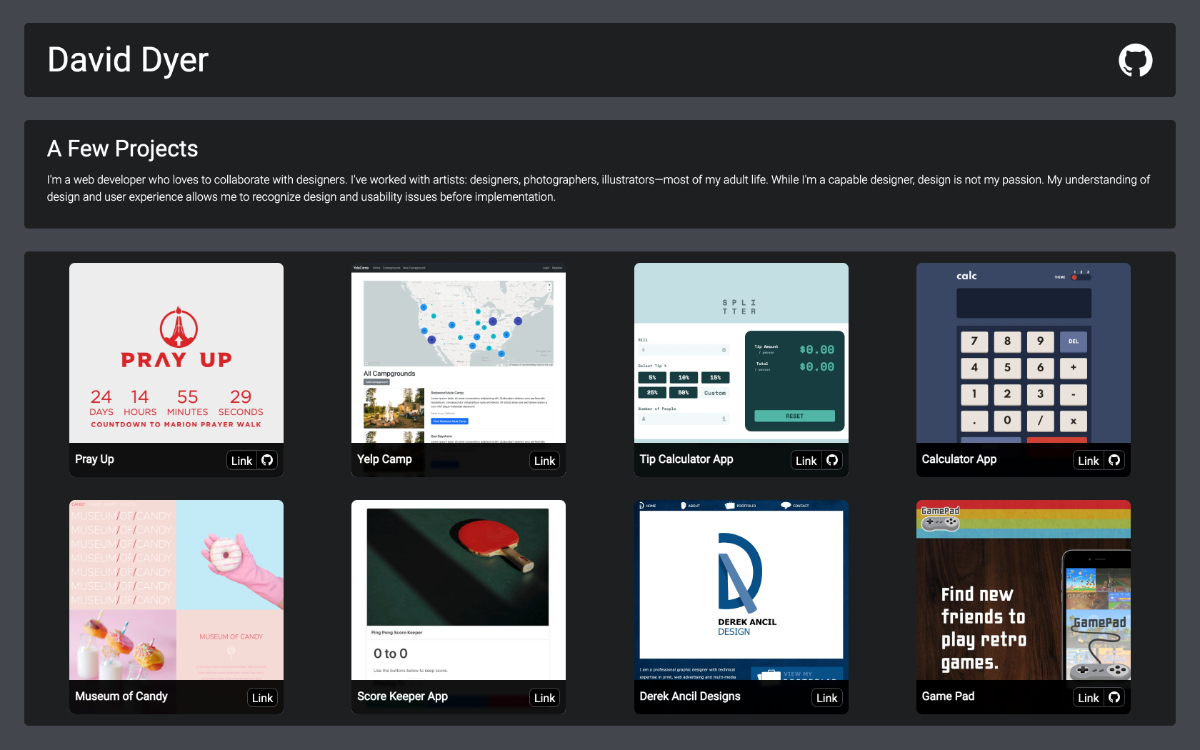
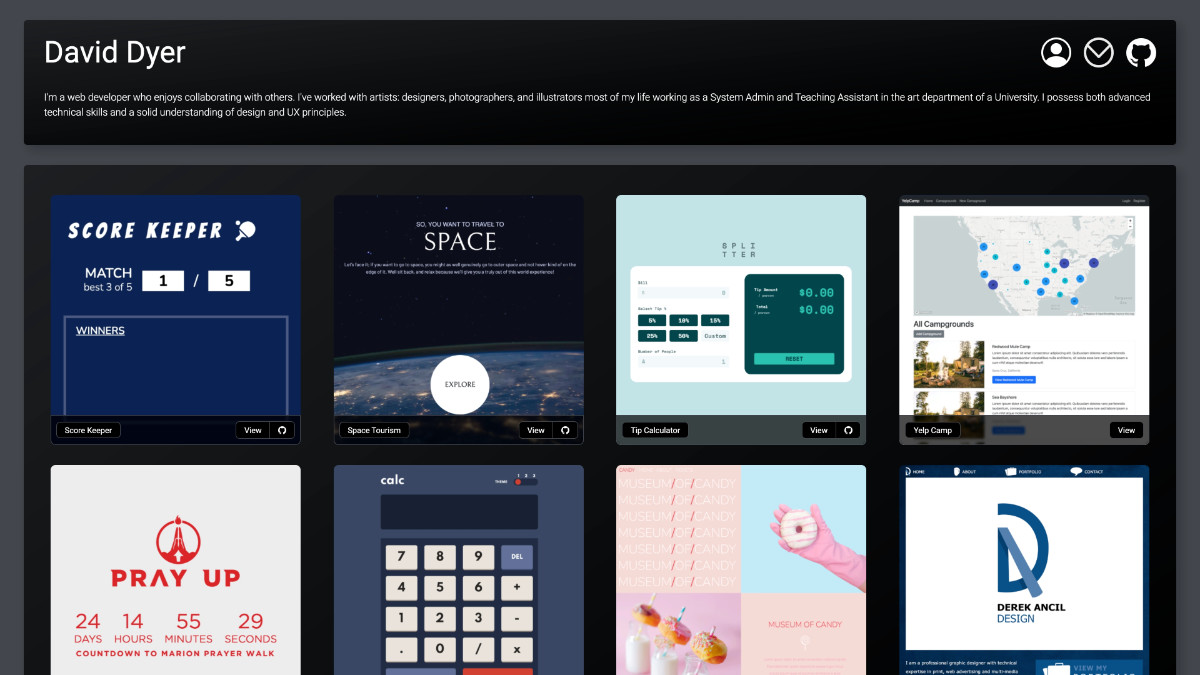
language css additions

diff --git a/scripts/dynamic-content.js b/scripts/dynamic-content.js
@@ -1,10 +1,9 @@
 const projectList = document.querySelector('#container--project-list');
 const detailList = document.querySelector('#container--project-details')
 
-const portfolioData = [
-	{
+const portfolioData = [{
 		title: 'Score Keeper',
-		discription: 'Web app for keeping score of a ping pong game, I designed and implemented.',
+		discription: "Web App for keeping score of a ping pong game. The goal was to keep track of the score for the current game and a set of games. I also wanted the winner list to persist between site loads. The winner list is stored as a JSON array in the browser's local storage.",
 		date: 'Dec 2021',
 		siteUrl: 'https://davidbdeath.github.io/ping-pong_score_keeper/',
 		gitUrl: 'https://github.com/davidbdeath/ping-pong_score_keeper',
@@ -14,12 +13,13 @@ const portfolioData = [
 		lang_lib: [
 			'html',
 			'sass',
-			'javascript'
+			'javascript',
+			'json'
 		]
 	},
 	{
 		title: 'Space Tourism',
-		discription: 'Website, implemented by me, designed by Frontend Mentor.',
+		discription: "I approached implementing this site using Javascript to toggle content visibility instead of creating a new HTML document for sub-page content. The content change controls for each page are done using the ARIA tablist. As a result, the page is screen reader-friendly. Site design by Frontend Mentor.",
 		date: 'Dec 2021',
 		siteUrl: 'https://davidbdeath.github.io/space-tourism-website/',
 		gitUrl: 'https://github.com/davidbdeath/space-tourism-website',
@@ -34,7 +34,7 @@ const portfolioData = [
 	},
 	{
 		title: 'Tip Calculator',
-		discription: 'Web app for splitting the bill and calculating the tip, implemented by me, designed by Frontend Mentor.',
+		discription: "Web app for splitting calculating the tip and splitting the bill with your group. Tip Amount and Total never output NaN, null, or Infinity. The inputs only accept numbers. The tip selected is highlighted, including the custom tip.",
 		date: 'Oct 2021',
 		siteUrl: 'https://davidbdeath.github.io/tip-calculator-app/',
 		imgUrl: 'images/site-thumbs/tip_calculator.jpg',
@@ -49,7 +49,7 @@ const portfolioData = [
 	},
 	{
 		title: 'Yelp Camp',
-		discription: 'Campground rating web app. I implemented the frontend and backend. Design based on a project from <a href="https://www.udemy.com/share/101W923@0AHFLcM1tVaGQceAH4TxemyQ-r5T4YPxJg1AW3GjmKdmgXhCa0JxOIeAvNWLXTZ6/">Colt Steele Web Developer Bootcamp</a> project.',
+		discription: 'Web App for finding, rating, and reviewing campgrounds. The site is dynamically generated using EJS, EJS Mate, and MongoDB. Flash is used for error and success messages. User input is validated using Joi, sanitize-html, and express-mongo-sanitize. Helmet is used for added security. User logins are implemented using passport and express-session for session data. Cloudinary is used for image storage and manipulations. Mapbox is used for custom interactive maps. The design is based on a project from <a href="https://www.udemy.com/share/101W923@0AHFLcM1tVaGQceAH4TxemyQ-r5T4YPxJg1AW3GjmKdmgXhCa0JxOIeAvNWLXTZ6/">Colt Steele Web Developer Bootcamp</a>.',
 		date: 'Sept 2021',
 		siteUrl: 'https://damp-sierra-93991.herokuapp.com/',
 		imgUrl: 'images/site-thumbs/yelpcamp.jpg',
@@ -58,16 +58,26 @@ const portfolioData = [
 		lang_lib: [
 			'html',
 			'css',
+			'bootstrap',
 			'javascript',
 			'node',
 			'express',
 			'ejs',
-			'mongo'
+			'ejs-mate',
+			'mongodb',
+			'flash',
+			'joi',
+			'sanitize-html',
+			'express-mongo-sanitize',
+			'passport',
+			'express-sessions',
+			'mapbox',
+			'cloudinary'
 		]
 	},
 	{
 		title: 'Pray Up',
-		discription: 'Website I designed and implemented for Pray Up ministries. Precursor for a much bigger social media app we are designing.',
+		discription: 'A Website I designed and implemented for Pray Up ministries. This site is a precursor for a much bigger social media platform.',
 		date: 'Jan 2021',
 		siteUrl: 'https://prayuplife.com',
 		imgUrl: 'images/site-thumbs/prayup.jpg',
@@ -168,7 +178,7 @@ const createProjectList = () => {
 
 		const siteUrl = document.createElement('a');
 		siteUrl.href = portfolioData[site].siteUrl;
-		siteUrl.textContent = 'Link';
+		siteUrl.textContent = 'View';
 		siteUrl.target = '_blank';
 		siteUrl.rel = 'noreferrer noopener';
 
@@ -249,7 +259,8 @@ const createDetailList = () => {
 		for (let langLib in portfolioData[site].lang_lib) {
 			const listItem = document.createElement('li');
 
-			listItem.innerHTML = portfolioData[site].lang_lib[langLib]
+			// listItem.innerHTML = portfolioData[site].lang_lib[langLib];
+			listItem.textContent = portfolioData[site].lang_lib[langLib];
 			listItem.classList.add(portfolioData[site].lang_lib[langLib]);
 			detailLangList.appendChild(listItem);
 		}

diff --git a/css/style.css b/css/style.css
@@ -225,7 +225,8 @@ body {
 	color: #264DE4;
 }
 
-.javascript {
+.javascript,
+.json {
 	color: #F0DB4F;
 }
 
@@ -253,19 +254,12 @@ body {
 	color: #bf4080;
 }
 
-.html,
-.css,
-.javascript,
-.node,
-.express,
-.ejs,
-.mongo,
-.php,
-.sass {
-	font-family: "Roboto", sans-serif;
-	font-size: 1rem;
-	font-weight: 500;
-	text-transform: uppercase;
+.bootstrap {
+	color: #8b12fb;
+}
+
+.cloudinary {
+	color: #3448c5;
 }
 
 .close-ctrl {
@@ -394,7 +388,7 @@ svg {
 	    flex-basis: 40%;
 }
 
-@media (max-width: 768px) {
+@media (max-width: 992px) {
 	#container--project-details {
 		position: fixed;
 		top: 50%;
@@ -471,6 +465,10 @@ main .block {
 	width: 100%;
 }
 .project-details .detail-body li {
+	font-family: "Roboto", sans-serif;
+	font-size: 1rem;
+	font-weight: 500;
+	text-transform: uppercase;
 	margin-right: 1em;
 	list-style: none;
 }

diff --git a/index.html b/index.html
@@ -68,7 +68,7 @@
 
 		<section class="introduction">
 			<p>
-				I'm a web developer who loves collaborating with designers. I've worked with artists: designers, photographers, illustrators—most of my adult life. My understanding of design and user experience allows me to make intuitive decisions while implementing a project leading to a better aesthetic and user experience. </p>
+				I'm a web developer who enjoys collaborating with others. I've worked with artists: designers, photographers, and illustrators most of my life working as a System Admin and Teaching Assistant in the art department of a University. I possess both advanced technical skills and a solid understanding of design and UX principles.</p>
 		</section>
 	</div>
 

diff --git a/sass/components/_lang-lib.scss b/sass/components/_lang-lib.scss
@@ -1,4 +1,4 @@
-@use '../abstracts' as *;
+@use '../abstracts'as *;
 
 .html {
 	color: $html;
@@ -8,7 +8,8 @@
 	color: $css;
 }
 
-.javascript {
+.javascript,
+.json {
 	color: $javascript;
 }
 
@@ -36,17 +37,10 @@
 	color: #bf4080;
 }
 
-.html,
-.css,
-.javascript,
-.node,
-.express,
-.ejs,
-.mongo,
-.php,
-.sass {
-	font-family: $paragraph-ff;
-	font-size: 1rem;
-	font-weight: 500;
-	text-transform: uppercase;
+.bootstrap {
+	color: #8b12fb;
+}
+
+.cloudinary {
+	color: #3448c5;
 }

diff --git a/sass/sections/_project-details.scss b/sass/sections/_project-details.scss
@@ -5,7 +5,7 @@
 	flex-basis: 40%;
 }
 
-@media (max-width: $md) {
+@media (max-width: $lg) {
 	#container--project-details {
 		position: fixed;
 		top: 50%;
@@ -88,7 +88,10 @@ main {
 		}
 
 		li {
-
+			font-family: $paragraph-ff;
+			font-size: 1rem;
+			font-weight: 500;
+			text-transform: uppercase;
 			margin-right: 1em;
 			list-style: none;
 		}
